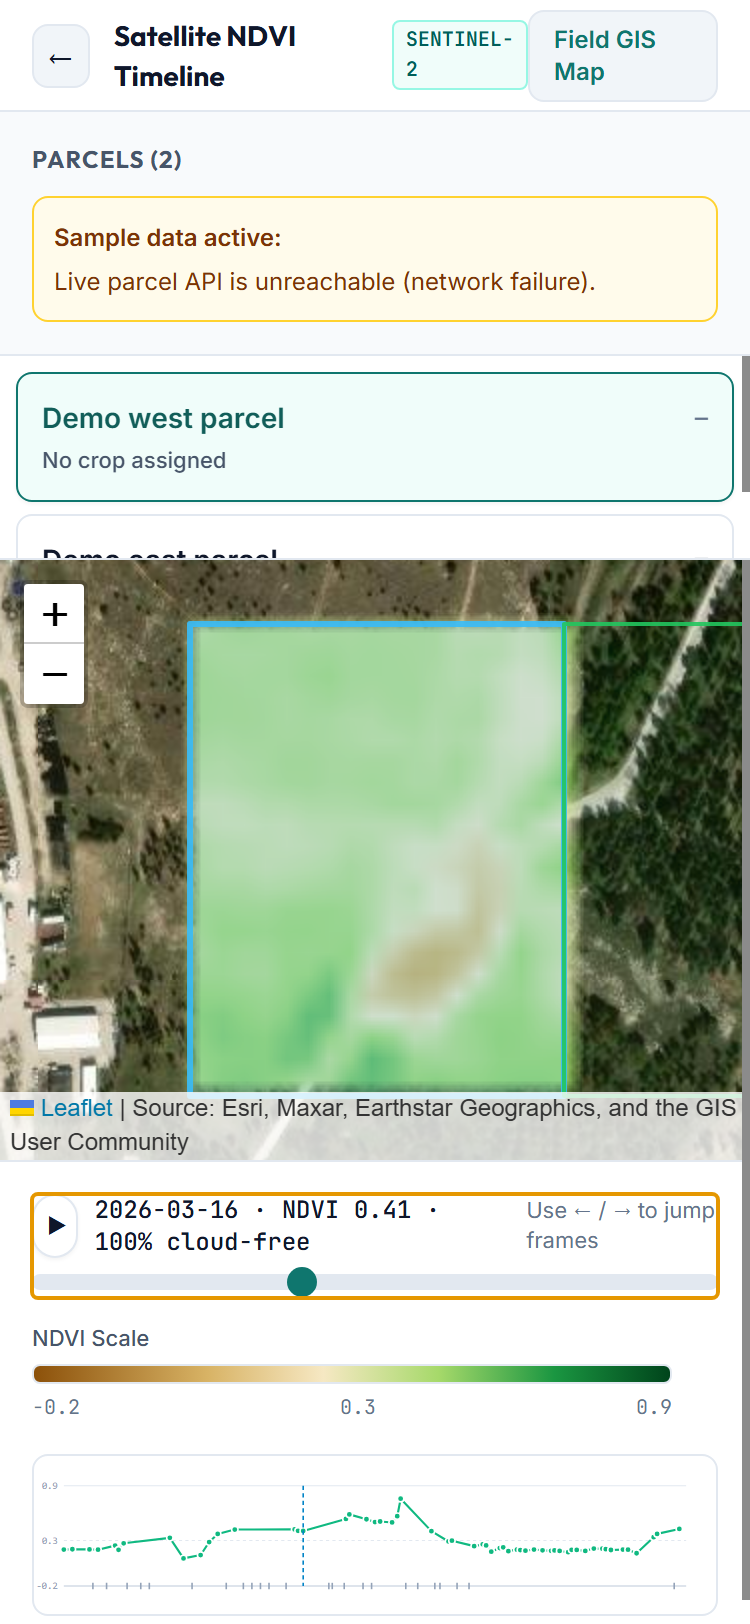
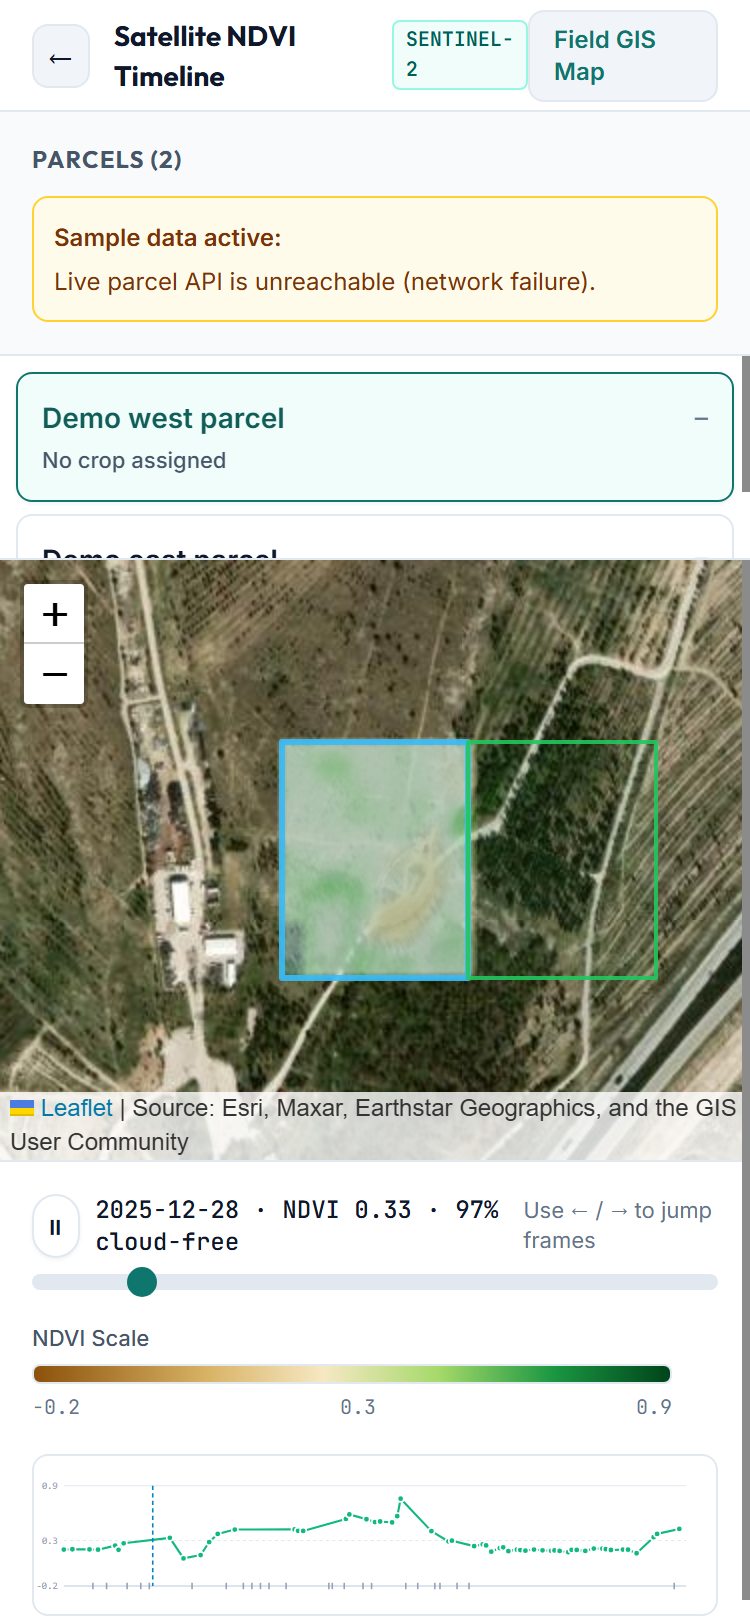
fix(satellite-web): keep ndvi legend labels readable

diff --git a/frontend/src/components/SatelliteTimeline/NdviLegend.tsx b/frontend/src/components/SatelliteTimeline/NdviLegend.tsx
@@ -11,7 +11,7 @@ export function NdviLegend(): React.JSX.Element {
   }).join(', ');
 
   return (
-    <div className="flex flex-col gap-1 w-full max-w-xs" aria-label="NDVI color scale">
+    <div className="flex flex-col gap-1 w-full max-w-xs min-w-40 shrink-0" aria-label="NDVI color scale">
       <div className="text-[11px] font-medium text-ag-ink-secondary">NDVI Scale</div>
       <div
         className="h-2.5 w-full rounded border border-ag-border"
